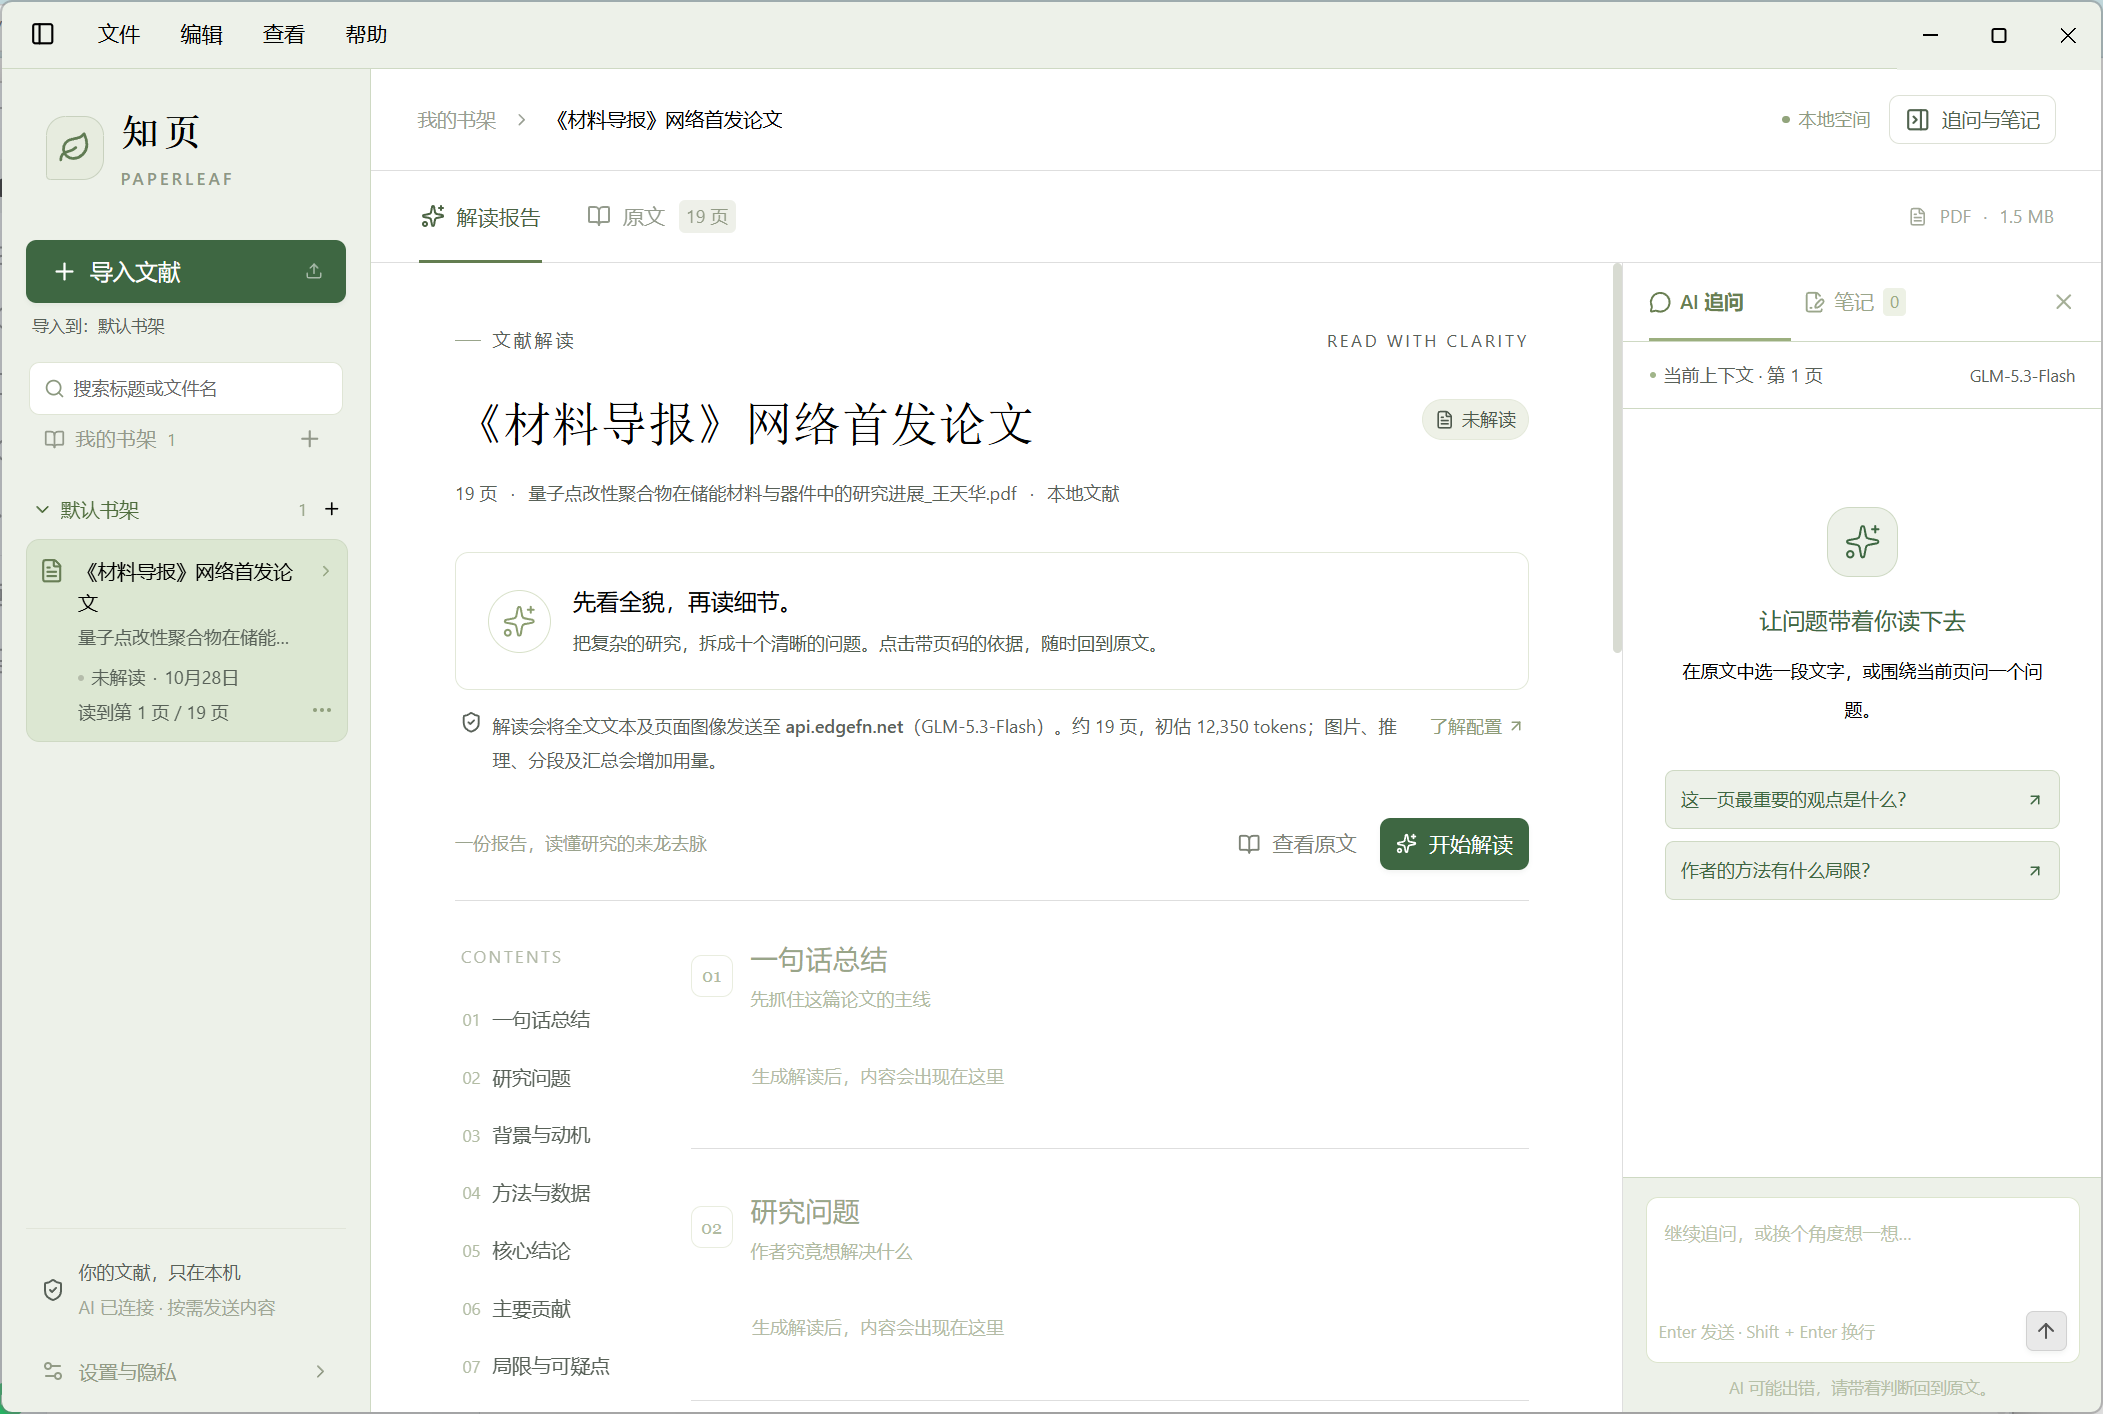
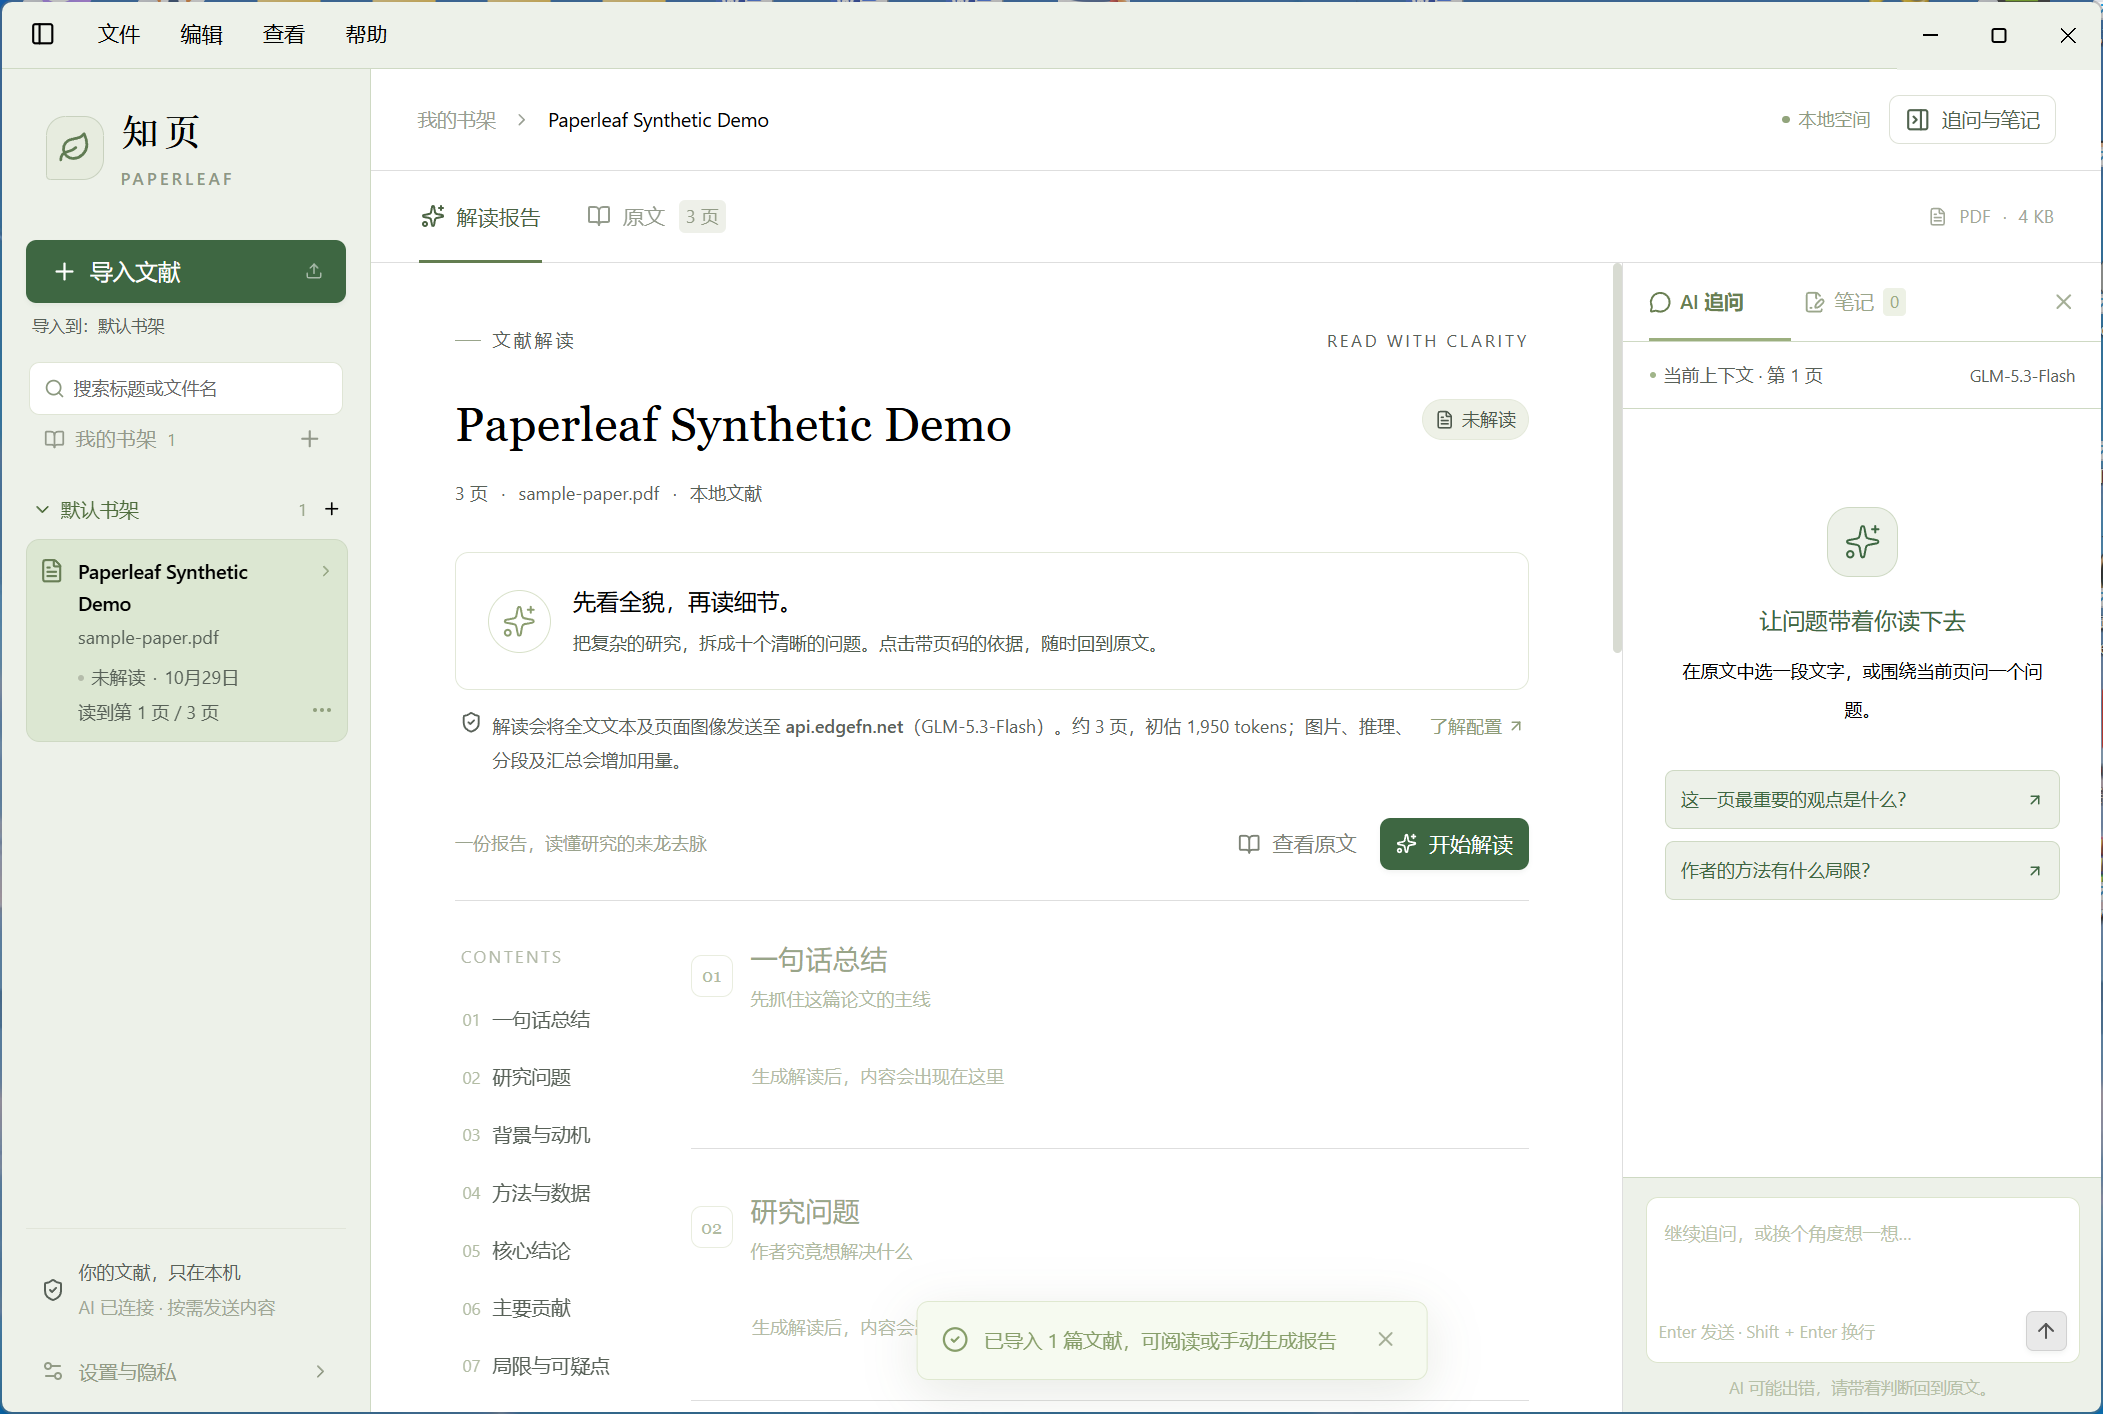
Refresh README screenshot and scale images

diff --git a/README.md b/README.md
@@ -5,7 +5,7 @@
 中文界面，不需要账号。未配置 AI 时，书架、PDF 阅读、页码记忆和笔记均可独立使用。没有标签系统、BibTeX、云同步或统计追踪。
 
 <p align="center">
-  <img src="docs/images/readme-home.png" alt="知页 Paperleaf 的首页和文献导入入口" width="100%" />
+  <img src="docs/images/readme-home.png" alt="知页 Paperleaf 的首页和文献导入入口" width="66.67%" />
 </p>
 
 ## Windows 桌面版（无需命令行）
@@ -94,7 +94,7 @@ Word 引用和文末参考文献联动目前仅规划，路线、数据模型与
 ## 怎么使用
 
 <p align="center">
-  <img src="docs/images/readme-import.png" alt="导入文献后的解读报告和追问面板" width="100%" />
+  <img src="docs/images/readme-import.png" alt="导入文献后的解读报告和追问面板" width="66.67%" />
 </p>
 
 没有现成 PDF 时，可使用 [examples/sample-paper.pdf](examples/sample-paper.pdf)。它是明确标注的三页合成演示文档，不是真实论文。
